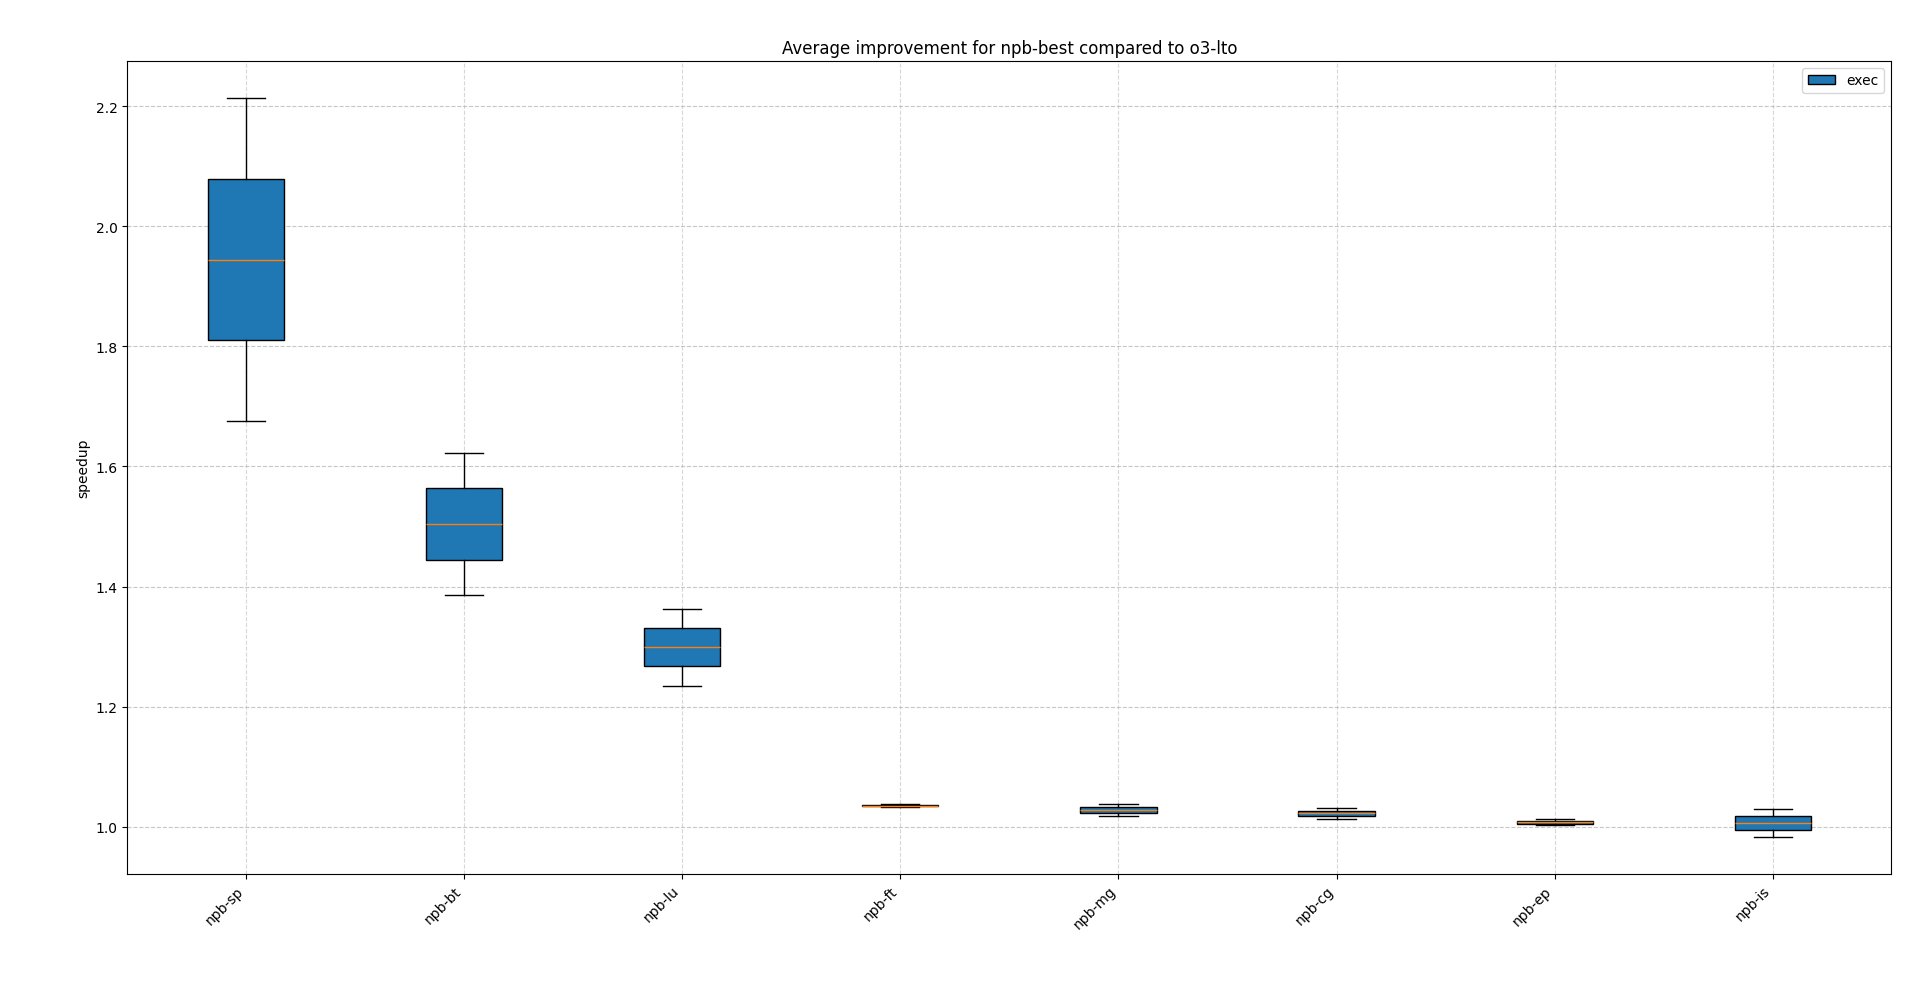
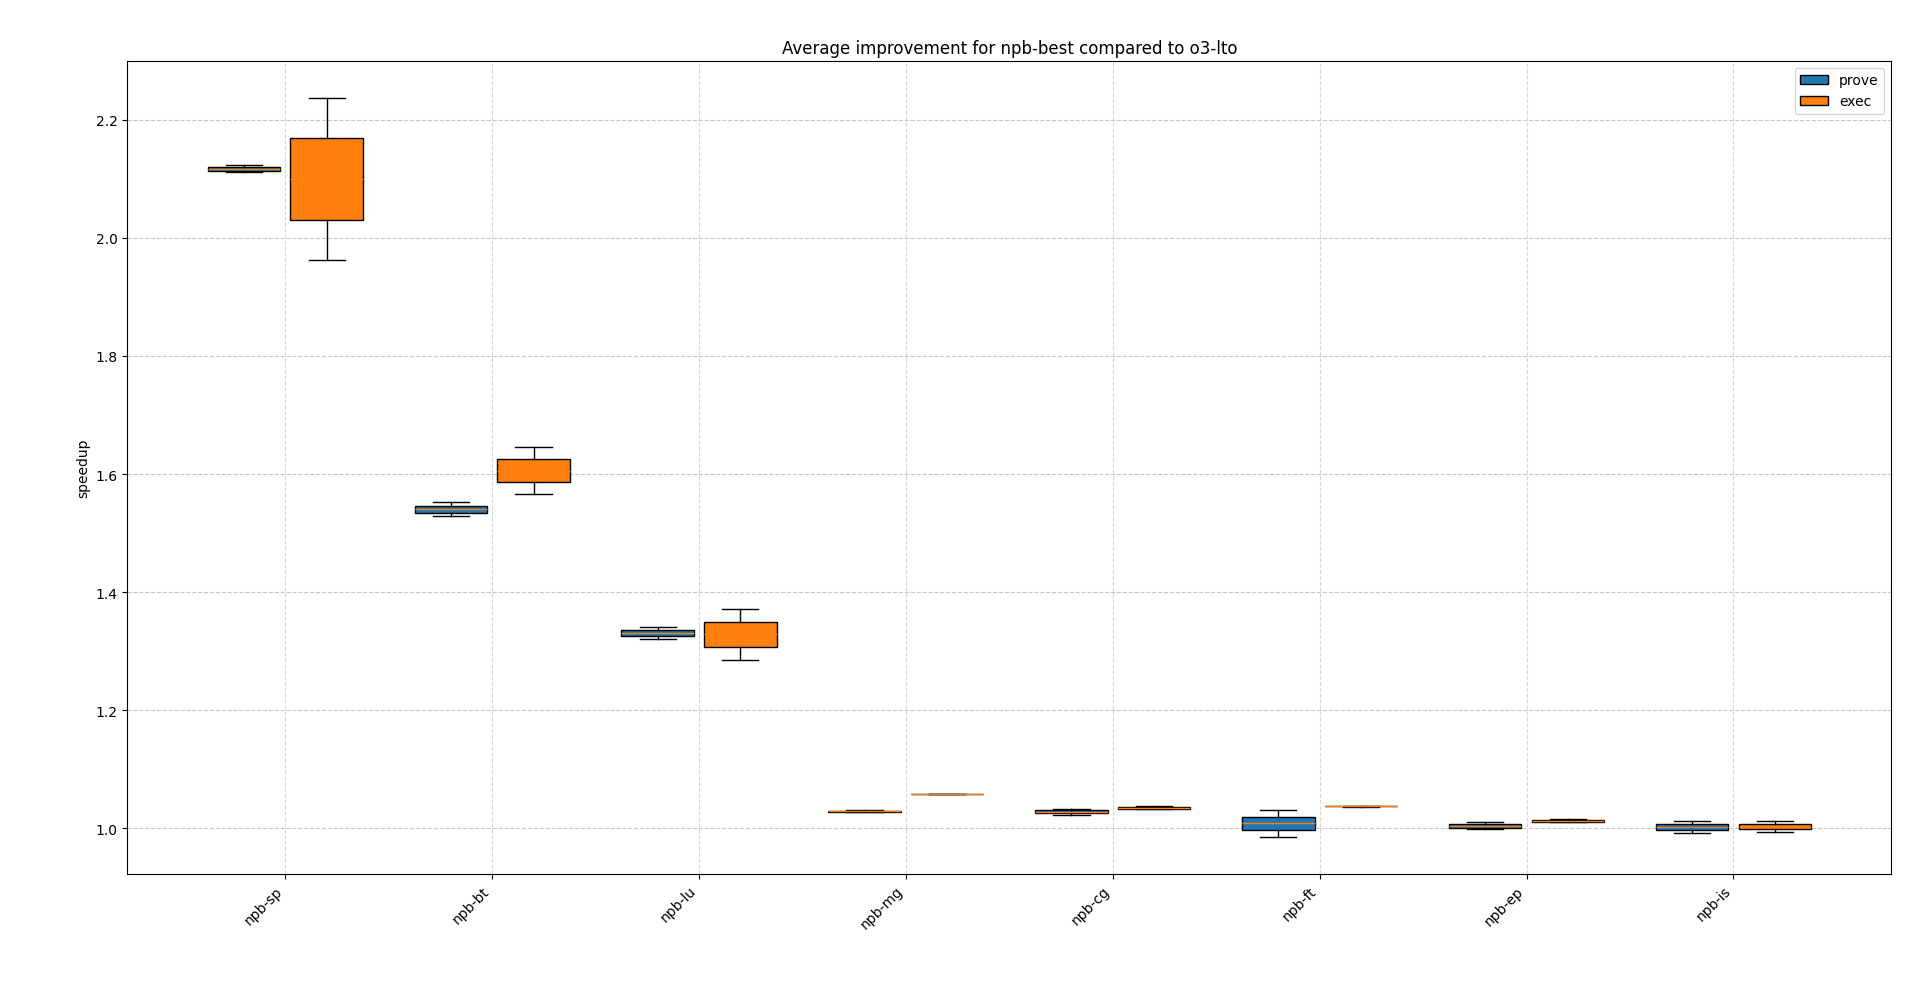
Add proving data for best npb config

diff --git a/results/docs/rq2/npb.md b/results/docs/rq2/npb.md
@@ -2,24 +2,42 @@
 
 Run is documented [here](./report/all-npb-cycle-count/README.md).
 
-No data on proving yet.
+## Improvement by program
 
-## Speedup by program (exec)
+### percentage
+
+![npb-improvement](./imgs/npb-improvement.png)
+
+### speedup
 
 ![npb-speedup](./imgs/npb-speedup.png)
 
+## Duration by program
+
+### prove
+
+![prove-duration](./imgs/npb-prove.png)
+
+#### prove duration sp1
+
+![prove-duration-sp1](./imgs/npb-prove-sp1.png)
+
+#### prove duration risc0
+
+![prove-duration-risc0](./imgs/npb-prove-risc0.png)
+
+### exec
+
+![exec-duration](./imgs/npb-exec.png)
+
+#### exec duration sp1
+
+![exec-duration-sp1](./imgs/npb-exec-sp1.png)
+
+#### exec duration risc0
+
+![exec-duration-risc0](./imgs/npb-exec-risc0.png)
+
 ## Cycle counts
 
-![npb-cycle-count](./imgs/npb-cycle-count.png)
-
-## Absolute duration (exec)
-
-![npb-duration](./imgs/npb-duration.png)
-
-### Absolute duration (exec, sp1)
-
-![npb-duration-sp1](./imgs/npb-duration-sp1.png)
-
-### Absolute duration (exec, risc0)
-
-![npb-duration-risc0](./imgs/npb-duration-risc0.png)
+![cycle-counts](./imgs/npb-cycle-count.png)
